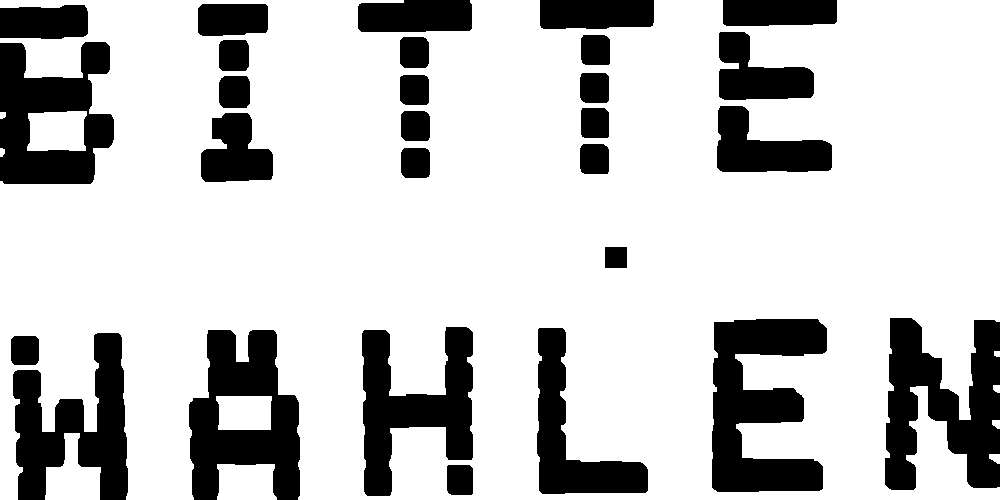
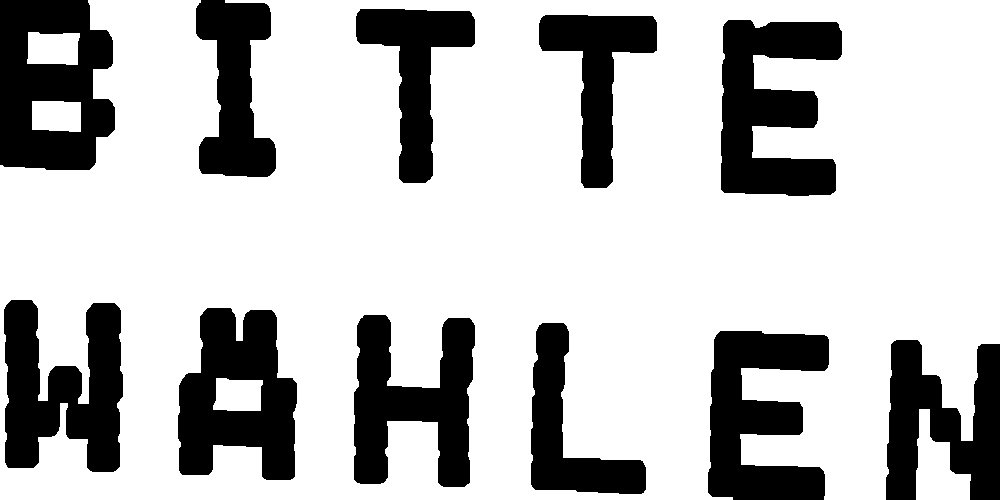
06.09 uni - LSQ and im_processing functions

diff --git a/LSQ.py b/LSQ.py
@@ -20,7 +20,7 @@ from PIL import Image, ImageFilter
 import PIL.ImageOps
 import glob, os
 
-import im_processing from im_processing
+from im_processing import im_processing
 
 
 #image importing and resizing
@@ -32,10 +32,12 @@ def LSQ (img):
     ref1 = cv2.imread("ref1.png")
     ref2 = cv2.imread("ref2.png")
     ref3 = cv2.imread("ref3.png")
+    ref4 = cv2.imread("ref4.png")
     
     reference1 = ref1[:,:,0]
     reference2 = ref2[:,:,0]
     reference3 = ref3[:,:,0]
+    reference4 = ref4[:,:,0]
     
     
     #-------------------------------------------------------------
@@ -50,10 +52,10 @@ def LSQ (img):
     dev3 = np.sum(temp3)
     dev4 = np.sum(temp4)
     
-    print (dev1)
-    print (dev2)
-    print (dev3)
-    print (dev4)
+    print ("dev1 = ", dev1)
+    print ("dev2 = ", dev2)
+    print ("dev3 = ", dev3)
+    print ("dev4 = ", dev4)
     
     if dev1 == min(dev1, dev2, dev3, dev4):
 #        print("BITTE WÄHLEN")
@@ -66,16 +68,16 @@ def LSQ (img):
     elif dev3 == min(dev1, dev2, dev3, dev4):
 #        print("PFLEGE DRÜCKEN")
         result = "PFLEGE DRÜCKEN"
+        
     elif dev4 == min(dev1, dev2, dev3, dev4):
 #        print("PFLEGE DRÜCKEN")
         result = "Wassera tank fullen"
-    else:
-#        print("please try again")
-        result = "PFLEGE DRÜCKEN"
-        
-    return result;
+
+    else :
+#        print("PFLEGE DRÜCKEN")
+        result = "Please try again"
+    
+    return str(result);
     
 
-img1 = cv2.imread ("p1.jpg")
-temp5 = LSQ (img1)
-print temp5
+

diff --git a/PreparingRefImage.py b/PreparingRefImage.py
@@ -1,0 +1,30 @@
+# -*- coding: utf-8 -*-
+"""
+Created on Fri Apr 21 09:22:52 2017
+
+@author: Saleh Firoozabadi
+"""
+
+
+
+import numpy as np
+from matplotlib import pyplot as plt
+
+#from imutils.perspective import four_point_transform
+#from imutils import contours
+#import imutils
+import cv2
+from PIL import Image, ImageFilter
+import PIL.ImageOps
+import glob, os
+
+from im_processing import im_processing
+
+#image importing and resizing
+
+img1 = cv2.imread ("import\coffee2.png")
+
+img =im_processing (img1)
+
+cv2.imwrite ('ref.png',img)
+

diff --git a/Final.py b/Final.py
@@ -1,0 +1,16 @@
+# -*- coding: utf-8 -*-
+"""
+Created on Fri Jun  9 12:55:19 2017
+
+@author: Saleh Firoozabadi
+"""
+
+from im_processing import im_processing
+from LSQ import LSQ
+
+
+img = cv2.imread ("import\d1.jpg")
+
+
+recognizedtext = LSQ (img)
+print (recognizedtext)

diff --git a/im_processing.py b/im_processing.py
@@ -72,5 +72,5 @@ def im_processing (img):
     erosion= cv2.erode(img_thresh1,kernel2,iterations = 1)
     dilation  = cv2.dilate(erosion,kernel1,iterations = 1)
 
-    return final;
+    return dilation;
 

diff --git a/README.md b/README.md
@@ -21,14 +21,13 @@ im_processing.py:
     5)LSQ and im_processing as functions
     
     
-Lsqversion.py:
+LsQ function:
 
     compares references with the imported images using the "Least square fitting"
 
 
 To Do:
 
-    *)continue to make LSQ function
     1)Slightly rotated pictures: rotate it degree by degree to obtain a better fitting
-    2)Finding the most suitable images to use as reference
+    2)Preparing the images taken by the new camera and finding the most suitable images to use as reference
     3)Try to find the best kernel parameters to obtain the best fittings in different image qualities
